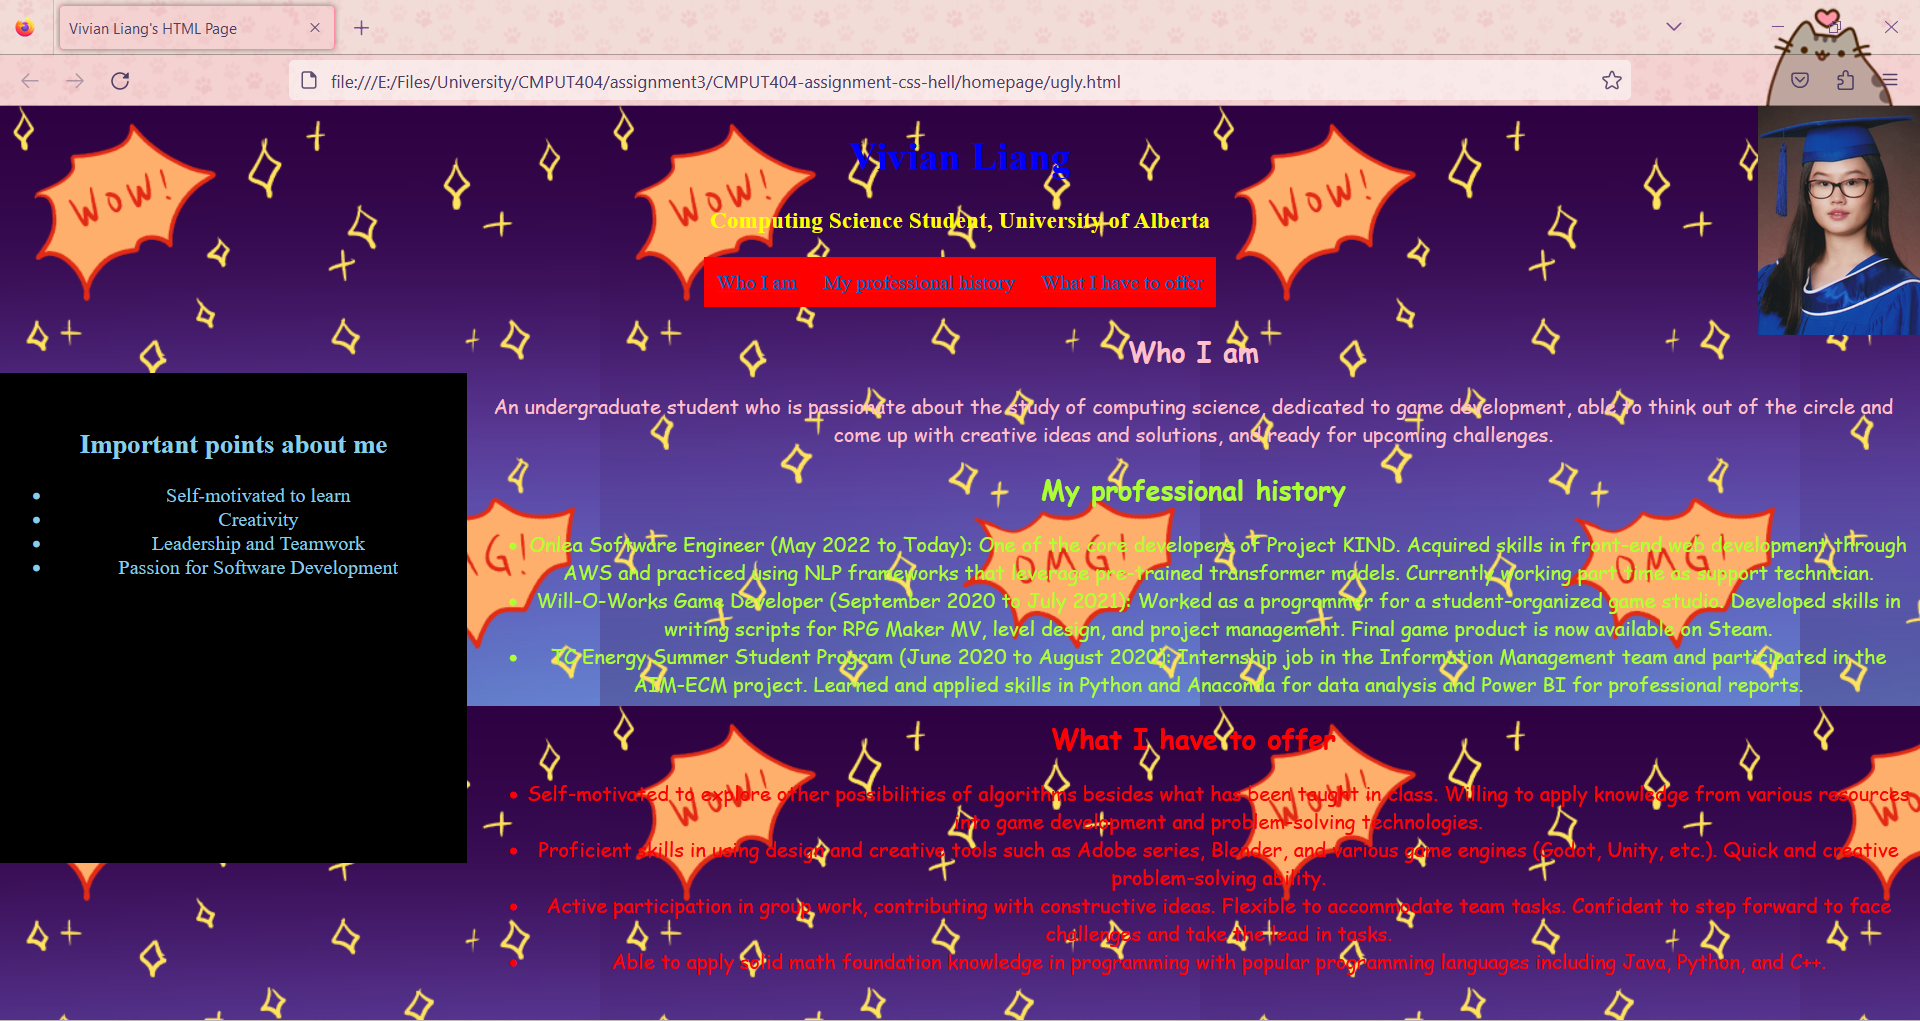
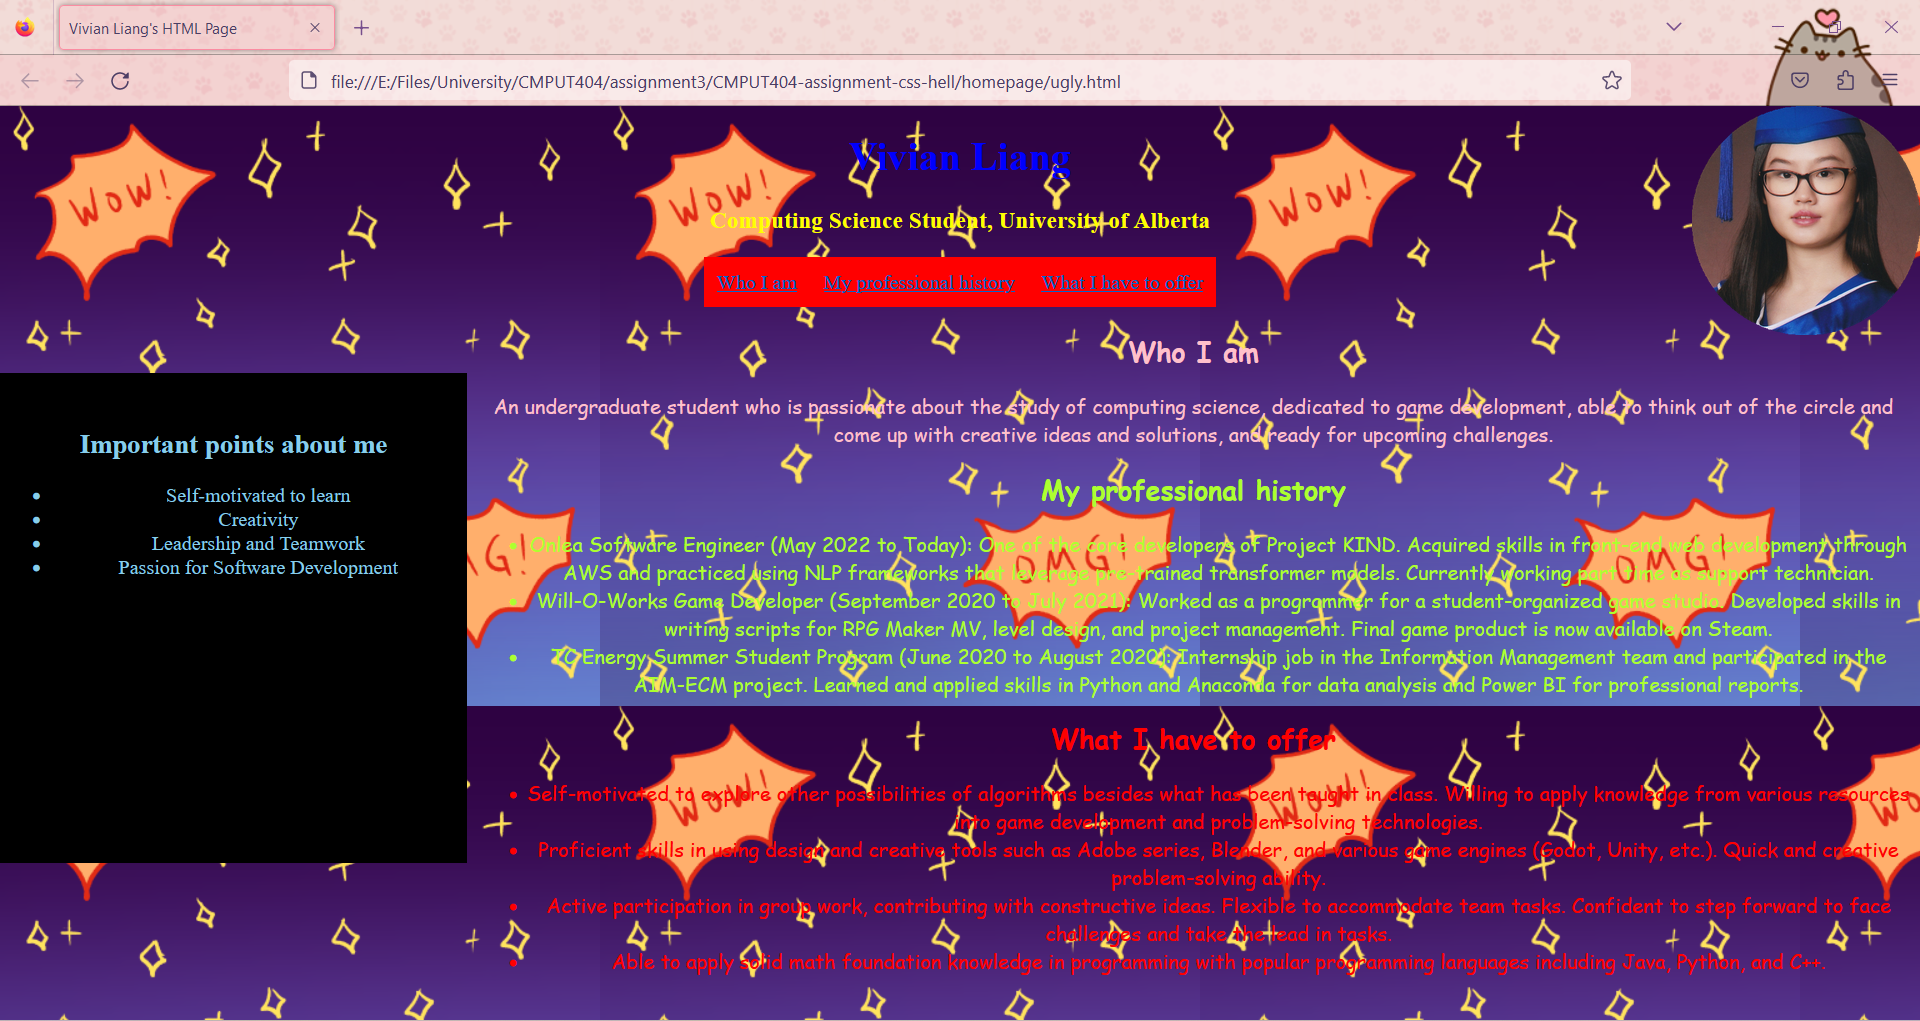
Update photo

Changed region(s): [[0.875, 0.0911, 1.0, 0.334]]

diff --git a/homepage/good.css b/homepage/good.css
@@ -1,26 +1,32 @@
 body {
+    width: 80%;
+    margin: auto;
     background-color: white;
 }
 main {
     margin-right: 320pt; 
 }
 header {
-    height: 250pt;
+    height: 240pt;
     width: 100%;
-    background-color: powderblue;
     text-align: center;
+    background-color: powderblue;
+}
+.title {
+    margin: auto;
+    width: 60%;
+    height: 60%;
+    text-align: center;
+    margin-bottom: 10pt;
 }
 /* Reference: https://stackoverflow.com/questions/7282236/placing-an-image-to-the-top-right-corner-css */
 img {
-    position: absolute;
-    right: 0;
-    top: 0;
-    display: block;
-    max-height: 25%;
-    max-width: 25%;
+    margin-top: 10pt;
+    max-height: 50%;
+    max-width: 50%;
 }
 nav {
-    height: 40pt;
+    height: 32pt;
     width: 100%;
     background-color: lightslategrey;
     text-align: center;
@@ -39,36 +45,33 @@ nav li {
 nav a {
     display: block;
     padding: 8pt;
-    font-size: 20pt;
     color: white; 
     background-color: lightslategrey;
 }
 /* Reference: https://www.w3schools.com/howto/howto_css_fixed_sidebar.asp */
 aside {
     color: black; 
-    height: 50%; 
+    height: 200pt; 
     width: 280pt; 
-    position: fixed; 
+    position: absolute; 
     z-index: 1;
-    top: 320pt; 
-    right: 8pt;
+    top: 300pt; 
+    right: 10%;
     background-color: rgb(243, 243, 243); 
     overflow-x: hidden; 
-    padding-top: 20pt;
+    padding-top: 10pt;
     text-align: center;
 }
 aside h2 {
-    padding-left: 30pt;
-    padding-right: 30pt;
-    font-size: 32pt;
+    padding-left: 20pt;
+    padding-right: 20pt;
 }
 aside ul {
-    padding-left: 30pt;
-    padding-right: 30pt;
+    padding-left: 20pt;
+    padding-right: 20pt;
     list-style-type: none;
 }
 aside li {
     color: blue;
-    font-size: 20pt;
     margin: 16pt 0;
 }

diff --git a/homepage/good.html b/homepage/good.html
@@ -9,12 +9,11 @@
 
 <body>
     <header>
+        <img src="photo.png" alt="photo">
         <div class="title">
             <h1>Vivian Liang</h1>
             <h3>Computing Science Student, University of Alberta</h3>
         </div>
-
-        <img src="photo.png" alt="photo">
     </header>
 
     <nav>

diff --git a/homepage/ugly.html b/homepage/ugly.html
@@ -9,12 +9,11 @@
 
 <body>
     <header>
+        <img src="photo.png" alt="photo">
         <div class="title">
             <h1>Vivian Liang</h1>
             <h3>Computing Science Student, University of Alberta</h3>
         </div>
-
-        <img src="photo.png" alt="photo">
     </header>
 
     <nav>
